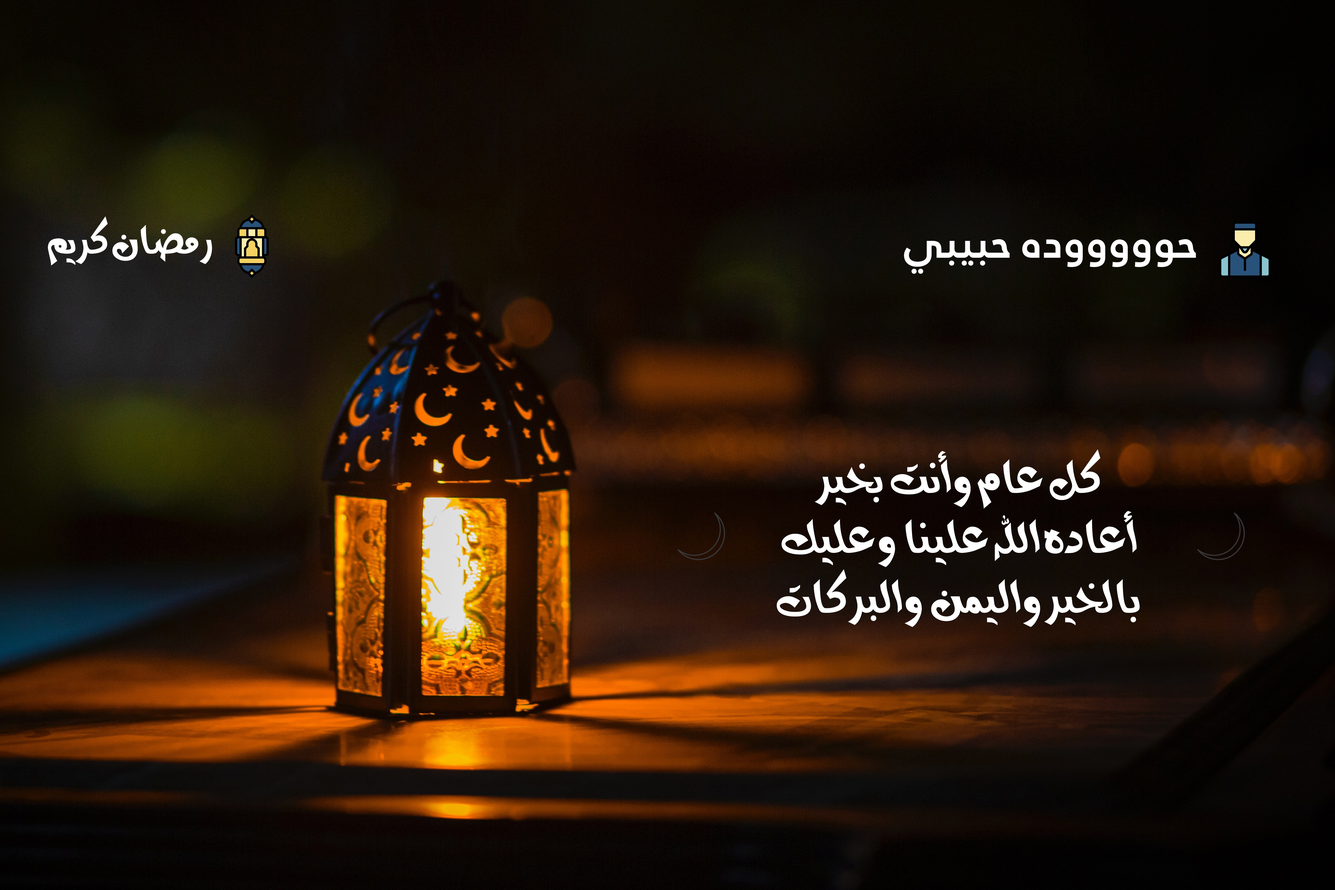
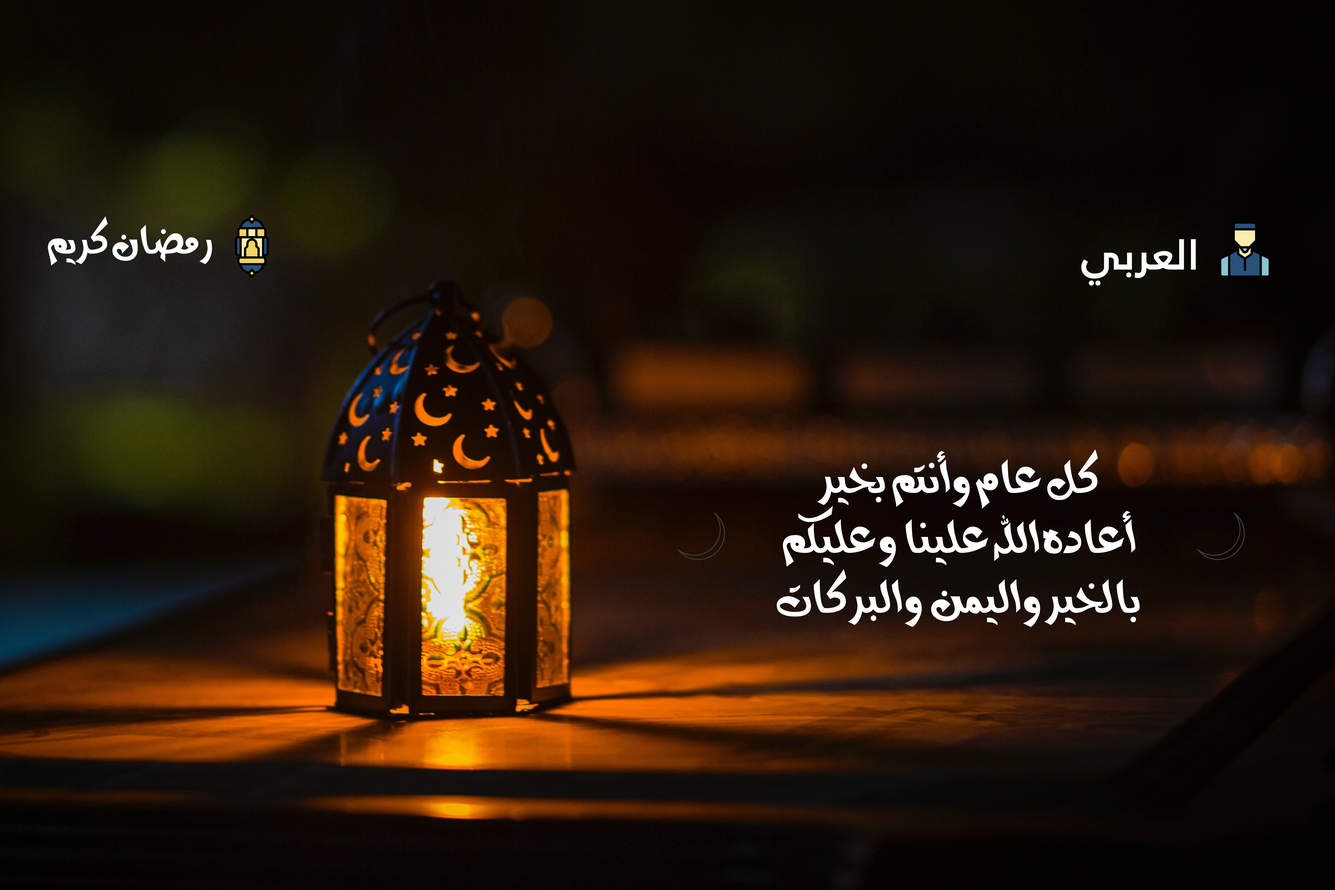
add some inhancements to ramadan feature
- add 2 images one for individual and othe for all

 - add token to image to make it for specific user

 - delete image after download

 - add counter when create the image in ramdan feature

diff --git a/resources/views/write_image.blade.php b/resources/views/write_image.blade.php
@@ -1,17 +1,16 @@
 @extends('layouts.master_home')
 @section('title')
-    {{ trans('site/body.store') }}
+    تهنئة رمضان
 @endsection
 @section('home_content')
     <!-- Page Title
-                                                  ============================================= -->
+                                                      ============================================= -->
     <section id="page-title" style="background-color: #752651;">
 
         <div class="container clearfix">
             <h1 class="text-white">كل عام وأنتم بخير</h1>
             <ol class="breadcrumb">
-                <li class="breadcrumb-item"><a class="text-white"
-                        href="{{ route('home') }}">الرئيسية</a></li>
+                <li class="breadcrumb-item"><a class="text-white" href="{{ route('home') }}">الرئيسية</a></li>
                 <li class="breadcrumb-item text-white active" aria-current="page">تهنئة</li>
             </ol>
         </div>
@@ -26,11 +25,8 @@
                 <div class="modal-dialog">
                     <div class="modal-content">
                         <div class="modal-header">
-                            <h5 class="modal-title" id="exampleModalLabel">قم بعمل تهنئة 
+                            <h5 class="modal-title" id="exampleModalLabel">قم بعمل تهنئة
                             </h5>
-                            <button type="button" class="close" data-dismiss="modal" aria-label="Close">
-                                <span aria-hidden="true">&times;</span>
-                            </button>
                         </div>
 
                         <div class="modal-body">
@@ -42,23 +38,43 @@
                                         placeholder="اكتب اسم الشخص هنا">
                                 </div>
 
+                                <div class="form-group">
+                                    <input type="radio" name="type" id="r1" value="فرد" />
+                                    <label for="r1">فرد</label>
+                                </div>
+
+                                <div class="form-group">
+                                    <input type="radio" name="type" id="r2" value="مجموعة" />
+                                    <label for="r2">مجموعة</label>
+                                </div>
+
                                 <button class="btn btn-danger" type="submit" style="margin-left: 17px;">
                                     أرسل</button>
                             </form>
 
                         </div>
 
+                        @php
+                        $counter = DB::table('counters')->first();
+                        @endphp
+
                     </div>
+
+                    <p class="alert alert-success mt-3">تم إنشاء {{$counter->count}} صورة </p>
+
                 </div>
             </div>
 
 
             <div class="col-md-4 pb-5">
-                <img src="{{ asset('upload/ramadan/ramadan_with_text.jpg') }}" alt="">
-                <a class="btn btn-danger mt-3" href="{{route('download.image')}}">تحميل الصورة</a>
-                    
+                @php
+                    $session_token = Session::get('_token');
+                @endphp
+                <img src="{{ asset('upload/ramadan/ramadan_with_text_'.$session_token.'.jpg') }}" alt="">
+                <a class="btn btn-danger mt-3" href="{{ route('download.image') }}">تحميل الصورة</a>
+
             </div>
-            
+
         </div>
         <!-- Order Traking Modal -->
     </div>

diff --git a/app/Http/Controllers/Frontend/IndexController.php b/app/Http/Controllers/Frontend/IndexController.php
@@ -9,6 +9,8 @@ use App\Models\Brand;
 use Image;
 use Illuminate\Http\Request;
 use Response;
+use Session;
+use App\Models\Counter;
 
 use AtmCode\ArPhpLaravel\ArPhpLaravel;
  
@@ -26,8 +28,13 @@ class IndexController extends Controller
 
 	public function textOnImage(Request $request)  
     {  
-       $img = Image::make('upload/ramadan.jpg');  
+		$session_token = Session::get('_token');
 
+		if($request->type == 'فرد') {
+			$img = Image::make('upload/individual.jpg');  
+		} else {
+			$img = Image::make('upload/all.jpg');  
+		}
 	  
 	   $name = ArPhpLaravel::utf8Glyphs($request->name);
 
@@ -41,21 +48,27 @@ class IndexController extends Controller
 		  
       });  
 	  
-       $img->save('upload/ramadan/ramadan_with_text.jpg');  
+       $img->save('upload/ramadan/ramadan_with_text_'.$session_token.'.jpg');  
 
+	   $counter = Counter::first();
+
+	  
+	   $counter['count'] = $counter->count + 1;
+	  	$counter->save();
 
 	   $notification = array(
-		'message' => 'نجحت العملية',
+		'message' => 'تم إنشاء الصورة بنجاح',
 		'alert-type' => 'success'
 	);
 
-	return redirect()->back()->with($notification);
+	return redirect()->route('write.image')->with($notification);
     }
 
 	public function downloadImage() {
-	
-		$filepath = public_path('upload/ramadan/')."ramadan_with_text.jpg";
-		return Response::download($filepath);		
+		$session_token = Session::get('_token');
+		
+		$filepath = public_path('upload/ramadan/')."ramadan_with_text_$session_token.jpg";
+		return response()->download($filepath)->deleteFileAfterSend(true);
 
 	}
 }

diff --git a/database/migrations/2022_03_22_173015_create_counters_table.php b/database/migrations/2022_03_22_173015_create_counters_table.php
@@ -1,0 +1,32 @@
+<?php
+
+use Illuminate\Database\Migrations\Migration;
+use Illuminate\Database\Schema\Blueprint;
+use Illuminate\Support\Facades\Schema;
+
+class CreateCountersTable extends Migration
+{
+    /**
+     * Run the migrations.
+     *
+     * @return void
+     */
+    public function up()
+    {
+        Schema::create('counters', function (Blueprint $table) {
+            $table->id();
+            $table->integer('count')->default(0);
+            $table->timestamps();
+        });
+    }
+
+    /**
+     * Reverse the migrations.
+     *
+     * @return void
+     */
+    public function down()
+    {
+        Schema::dropIfExists('counters');
+    }
+}

diff --git a/database/factories/CounterFactory.php b/database/factories/CounterFactory.php
@@ -1,0 +1,21 @@
+<?php
+
+namespace Database\Factories;
+
+use Illuminate\Database\Eloquent\Factories\Factory;
+use Illuminate\Support\Str;
+
+class CounterFactory extends Factory
+{
+    /**
+     * Define the model's default state.
+     *
+     * @return array
+     */
+    public function definition()
+    {
+        return [
+            'count' => '0',
+        ];
+    }
+}

diff --git a/database/seeders/CounterSeeder.php b/database/seeders/CounterSeeder.php
@@ -1,0 +1,18 @@
+<?php
+
+namespace Database\Seeders;
+
+use Illuminate\Database\Seeder;
+use App\Models\Counter;
+class CounterSeeder extends Seeder
+{
+    /**
+     * Run the database seeds.
+     *
+     * @return void
+     */
+    public function run()
+    {
+        Counter::factory(1)->create();
+    }
+}

diff --git a/app/Models/Counter.php b/app/Models/Counter.php
@@ -1,0 +1,15 @@
+<?php
+
+namespace App\Models;
+
+use Illuminate\Database\Eloquent\Factories\HasFactory;
+use Illuminate\Database\Eloquent\Model;
+
+class Counter extends Model
+{
+    use HasFactory;
+
+    protected $fillable = [
+        'count', 
+    ];
+}
